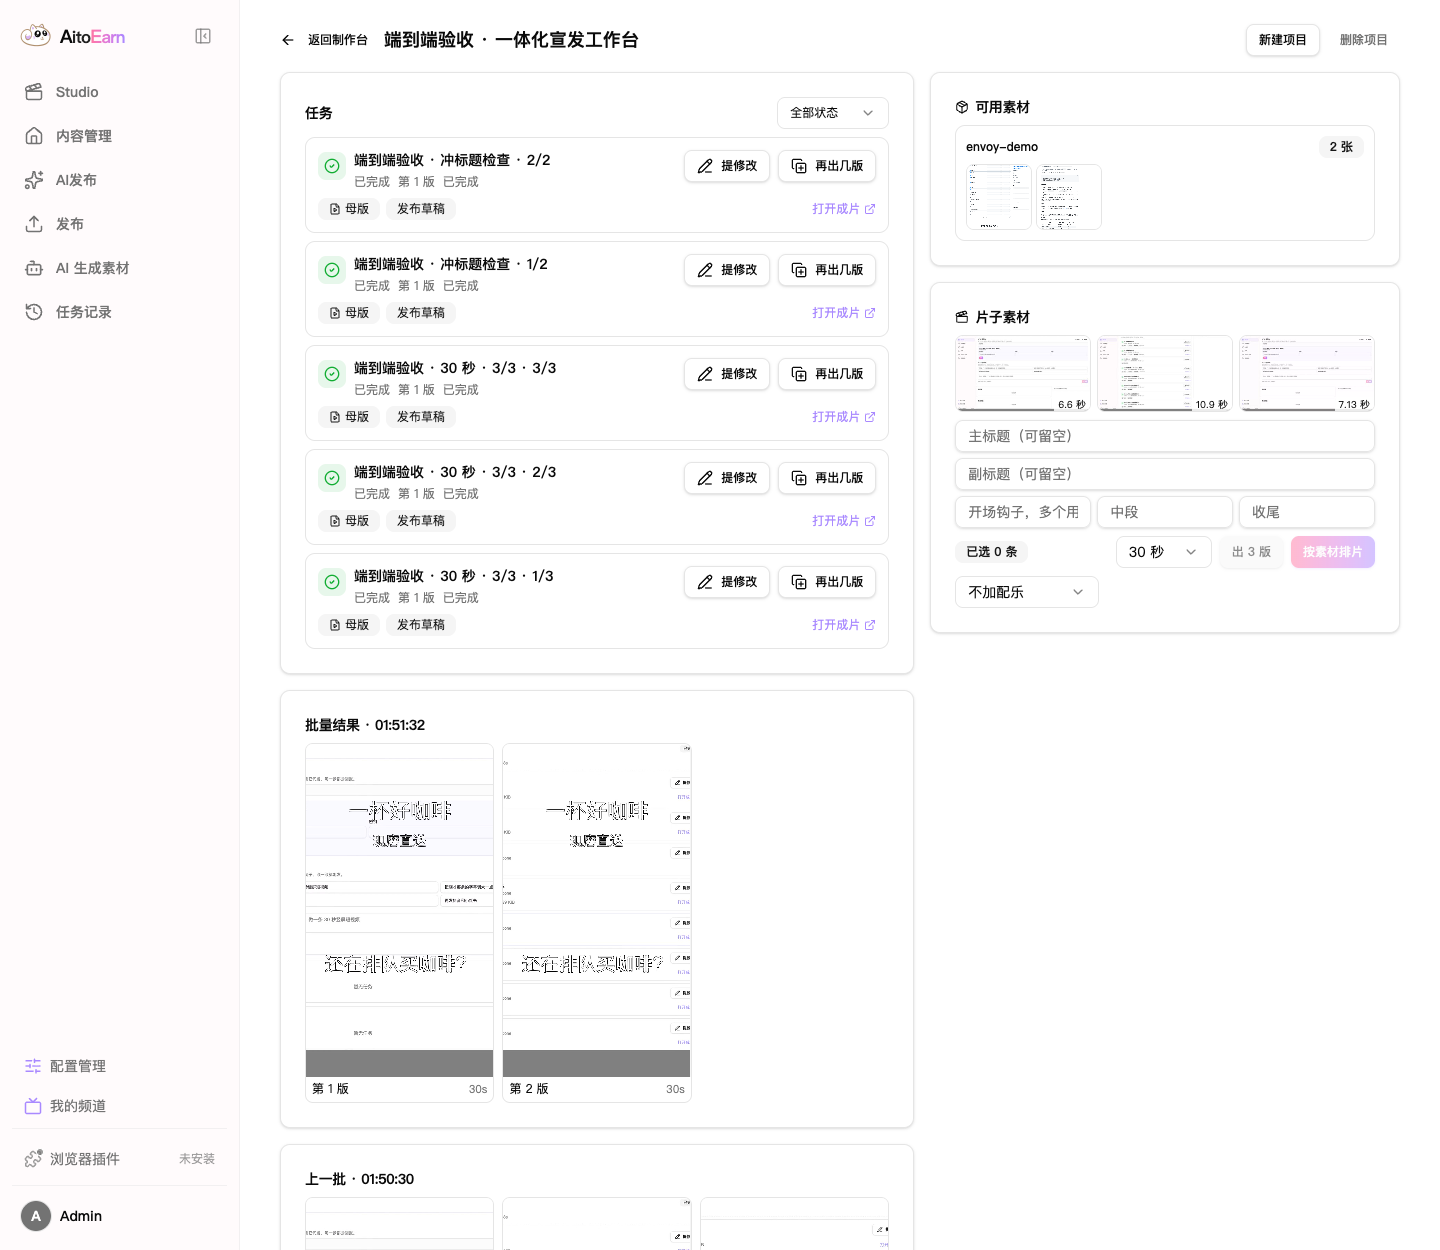
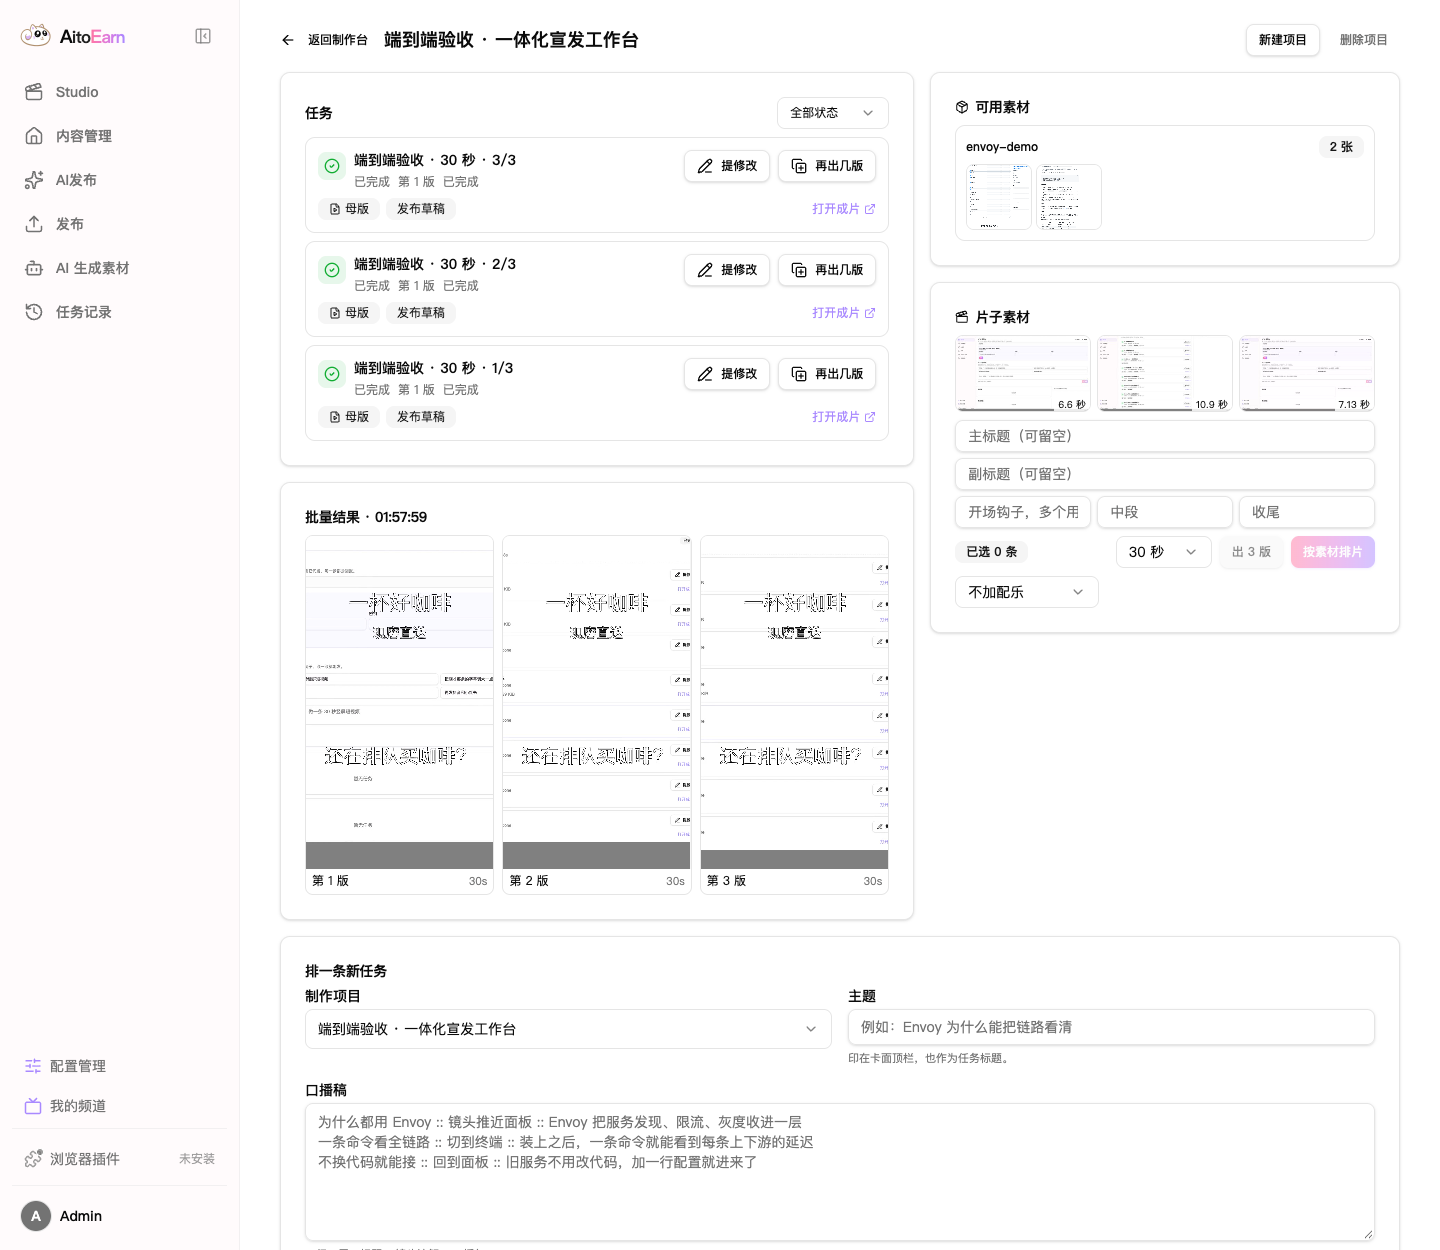
docs(studio): 补迁移后复跑与目录清单证据

diff --git a/docs/platform/evidence/library-project/README.md b/docs/platform/evidence/library-project/README.md
@@ -53,3 +53,7 @@
 | `6ae235e6aa561aad282987e0/` | `端到端验收-一体化宣发工作台__6ae235e6/` | 10 |
 
 搬迁同时改文件名里的项目段、sidecar 的 `path/project/projectId/projectDir`，并回写台账路径；`library.py verify` 对账干净。库根现在只有 15 个项目目录 + `未归属` + `index.jsonl`。
+
+## 迁移后复跑
+
+迁移完成、worker 重启后新建项目再跑一批 3 版，全部 succeeded，落点都在新目录（`端到端验收-一体化宣发工作台__6ae237a7/`），ffprobe 均为 1080×1920 / 30 fps / 30.0 s。工作区截图见 `e2e-workspace.png`。
